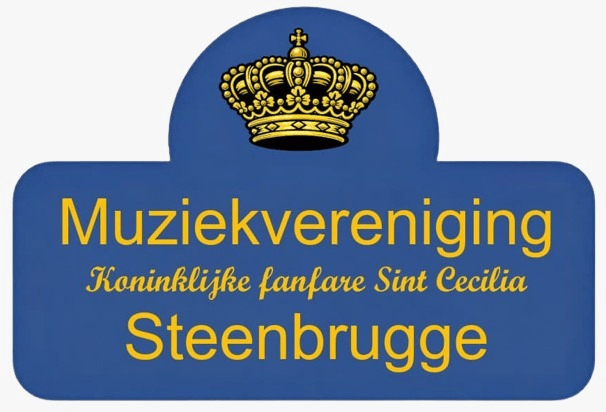
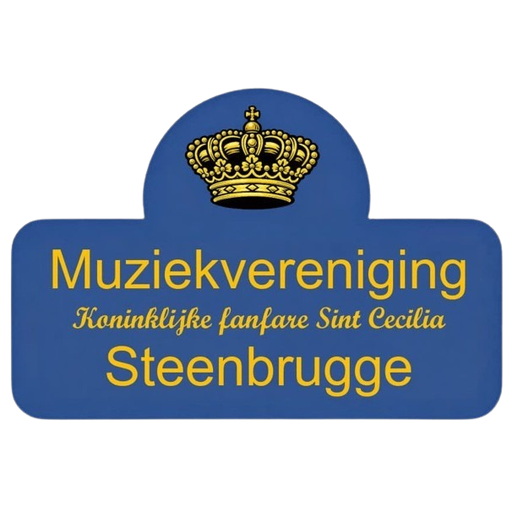
Nieuw icoon (vierkant, 512x512) en cacheversie naar version_008

diff --git a/leden-activiteiten/sw.js b/leden-activiteiten/sw.js
@@ -1,7 +1,7 @@
 // folder that contains sw.js: /MuziekverenigingSteenbrugge.github.io/leden-activiteiten online, /leden-activiteiten locally
 var GHPATH = self.location.pathname.replace(/\/sw\.js$/, '');
 var APP_PREFIX = 'gppwa_';
-var VERSION = 'version_007';
+var VERSION = 'version_008';
 var URLS = [
   `${GHPATH}/`,
   `${GHPATH}/index.html`,
